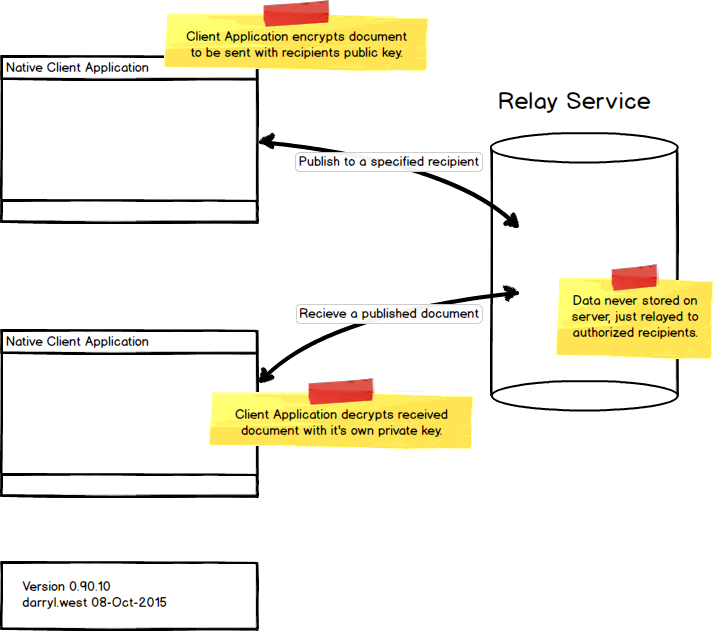
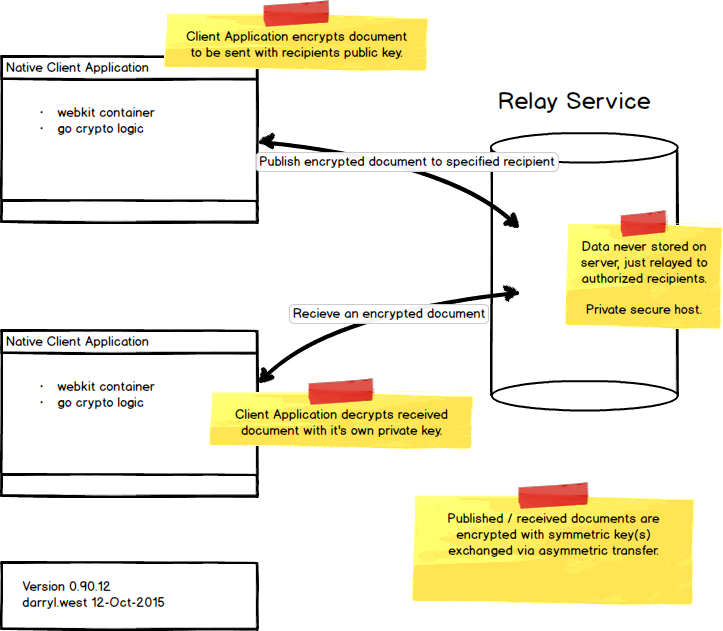
added symmetric encryption

diff --git a/app-functional-specs.md b/app-functional-specs.md
@@ -5,17 +5,17 @@
 The risk areas for secure document exchange include...
 
 * data transmission, man-in-the-middle attacks
-* data at rest being compromised by a hacker
+* data at rest being compromised by a hacker through disk or memory
 * authentication breech caused by careless users, weak passwords, etc
 * authentication breech caused by stolen device
 
-Our solution addresses these risks by creating a secure client-to-client environment where only the recipient has the ability to decrypt the received document.   Each user would have their own private copy of the client application, compiled just for them.
+Our solution addresses these risks by creating a secure client-to-client environment where only the recipient has the ability to decrypt the received document.   Each user would have their own copy of the natively compiled client application, with secure key generation.
 
-Combining hmac document signatures with secure sockets solves the man-in-the-middle risk.  Using machine keys to encrypt sensitive documents solves the careless user/weak password risk.
+Combining hmac document signatures with secure sockets solves the man-in-the-middle risk.  Using machine keys with hight entropy to encrypt sensitive documents solves the careless user/weak password risk.
 
 Our relay service acts as temporary storage until the recipient requests a document published specifically for them.  This solves the data-at-rest risk.
 
-Client applications include additional back-channel methods of authenticating users via SMS, email, or other means.  This additional authentication solves the stolen device risk.
+Client applications include additional back-channel methods of authenticating users via two-factor authentication using time based one-time passwords, biometrics and/or private channel devices.  This additional authentication solves the stolen device risk.
 
 
 
@@ -26,20 +26,21 @@ Client applications include additional back-channel methods of authenticating us
 
 ### Client Application
 
-The client application has the ability to send out it's public key but never transmits it's private key.  Client applications are written in nw.js (NodeWebkit) with low-level exchanges done in go/c++ or some other compiled language.  Target environments include Windows, MacOSX and Linux.  Additional phase 2 versions could support iOS/iPad/iPhone.
+The client application has the ability to send out it's public key to the relay server and recieve encrypted data based on the public key.  Encrypted data usually includes a symmetric key to be used by other cooperating clients.
+
+Client applications are written in nw.js (NodeWebkit) with low-level exchanges done in go.  Target environments include Windows, MacOSX and Linux.  Phase 2 versions support iOS/iPad/iPhone.
 
 * client applications compiled for Windows, Mac and Linux
 * client application can act as a document producer or consumer
-* each user would receive a unique version with it's own ID and set of keys
 * as a recipient, read only documents would not be stored
 * read/write documents would enable changes to the document to be transmitted back to the publisher
 * admin documents would provide the ability to store the document on the recipient's device (they then potentially become a content producer)
-* all exchanges would use the recipient's public key to encrypt data by the producer
+* all exchanges would use the a symmetric key to encrypt data by the producer and decrypt by the receiver
 * all exchanges travel through the relay server as a temporary holding area until the recipient is ready to receive
 
 ### Relay Service
 
-The relay service operates over secure websockets, only handles encrypted anonymous data transfers, and never persists data.  This allows hosting in any environment that supports high data throughput, e.g., relatively low cost Amazon services.
+The relay service operates over secure websockets, only handles encrypted anonymous data transfers, and never persists data.  For memory and disk safe operation, the relay service is hosted on a private, secure server.
 
 The main features/functions are...
 
@@ -50,13 +51,13 @@ The main features/functions are...
 * send out back-channel authentication request
 * process back-channel authentications
 
-The relay service would be written in go/java/c++ or other secure, compiled language.  TLS1.2+ would be used for all transfers.  Back channel communications would be delivered through SMS, email and/or custom service.
+The relay service would be written in go, a compiled language.  TLS1.2+ would be used for all transfers.  Back channel communications would be delivered through SMS, email and/or custom service.
 
 ## Summary
 
-This solution leverages the relatively small user set (10K) to create an exchange environment that does not rely on user passwords.  Back channel authentication provides extra protection and security.  This level of security would be impossible to do inside a browser based application.
+This solution leverages the relatively small user set (10K) to create an exchange environment that does not rely on user passwords.  Back channel authentication provides authentication through biometrics or other secure methods.  This level of security would be impossible to do inside a browser based application.
 
 The relay system anonymously takes bits of encrypted data and holds it for transfer to the specified recipient who has the only capability to decrypt the data.
 - - -
 darryl.west@roundpeg.com
-version 0.90.11 10-Oct-2015
+version 0.90.12 12-Oct-2015
